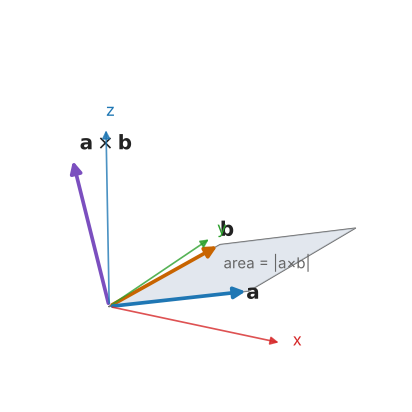
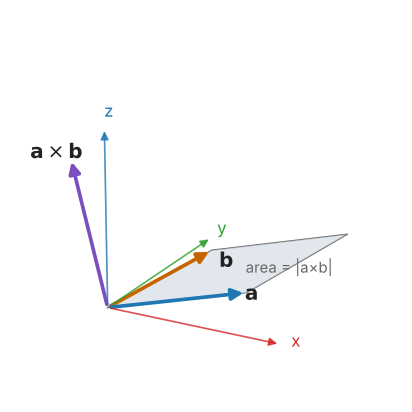
Record Nandi's three playlists in REFERENCES

Changed region(s): [[0.0583, 0.3204, 0.8738, 0.8447], [0.699, 0.8155, 0.7282, 0.8447], [0.2621, 0.2621, 0.2913, 0.2913]]

diff --git a/math-primer/figures/make_figures.py b/math-primer/figures/make_figures.py
@@ -134,19 +134,19 @@ def fig_m1_cross_product():
     ax.add_collection3d(Poly3DCollection([poly[:4]], facecolor="#cfd8e3", alpha=0.6, edgecolor="none"))
     for vec, col, lab, off in [
         (a, SERIES[0], r"$\mathbf{a}$", (0.05, -0.12, 0.0)),
-        (b, SERIES[1], r"$\mathbf{b}$", (-0.05, 0.08, 0.02)),
-        (c, SERIES[2], r"$\mathbf{a}\times\mathbf{b}$", (0.06, 0.0, 0.06)),
+        (b, SERIES[1], r"$\mathbf{b}$", (0.1, -0.08, -0.08)),
+        (c, SERIES[2], r"$\mathbf{a}\times\mathbf{b}$", (-0.32, 0.0, -0.05)),
     ]:
         ax.add_artist(Arrow3D((0, 0, 0), vec, arrowstyle="-|>", color=col, lw=2.2, mutation_scale=14))
         ax.text(*(vec + np.array(off)), lab, color=INK, fontsize=12)
     # reference axes
-    for vec, col, lab in [((1.3, 0, 0), X_RED, "x"), ((0, 1.3, 0), Y_GREEN, "y"), ((0, 0, 1.2), Z_BLUE, "z")]:
+    for vec, col, lab in [((1.3, 0, 0), X_RED, "x"), ((0, 1.45, 0), Y_GREEN, "y"), ((0, 0, 1.2), Z_BLUE, "z")]:
         ax.add_artist(Arrow3D((0, 0, 0), vec, arrowstyle="-|>", color=col, lw=1.0, mutation_scale=10, alpha=0.8))
         ax.text(*(np.array(vec) * 1.06), lab, color=col, fontsize=10)
     mid = (a + b) / 2
-    ax.text(mid[0] - 0.05, mid[1] - 0.05, mid[2], "area = |a×b|", color=MUTED, fontsize=9)
+    ax.text(mid[0] + 0.12, mid[1] + 0.02, mid[2], "area = |a×b|", color=MUTED, fontsize=9)
     ax.set_xlim(-0.4, 1.3)
-    ax.set_ylim(-0.2, 1.3)
+    ax.set_ylim(-0.2, 1.45)
     ax.set_zlim(0, 1.2)
     ax.view_init(elev=20, azim=-62)
     ax.set_axis_off()
@@ -307,7 +307,7 @@ def fig_m6_step_responses():
     ax.set_ylabel("y(t)")
     ax.set_title("unit-step response", fontsize=10, color=INK)
     ax.legend(loc="lower right", fontsize=8.5)
-    ax.text(10.5, 1.06, "±2% band", color=MUTED, fontsize=8)
+    ax.text(17.0, 1.08, "±2% band", color=MUTED, fontsize=8)
     fig.tight_layout()
     save(fig, "m6_step_responses.png")
 

diff --git a/docs/REFERENCES.md b/docs/REFERENCES.md
@@ -65,10 +65,10 @@ Prof. Gora Chand Nandi is Head of the Centre of Intelligent Robotics at IIIT-A. 
 
 | Playlist / video | URL | Status |
 |---|---|---|
-| (1) *Mathematical Foundation of Robotics* (29 videos). L2–L25 cover the mid-sem topics (FK/IK, spatial and rotational transforms, Euler angles, gimbal lock, quaternions, D-H, PUMA 560); L26–L29 cover dynamics. | https://youtube.com/playlist?list=PLFWlHcAOSQboRkC6DtxKIqXmErq0oc7S3 | **Verified from the instructor's notes** (the URL is printed in the IIIT-A mid-sem notes, p. 58). YouTube itself could not be opened from the research environment. |
+| (1) *Mathematical Foundation of Robotics* (29 lessons; first course, listed on his channel as a *Course*). L2–L25 cover the mid-sem topics (FK/IK, spatial and rotational transforms, Euler angles, gimbal lock, quaternions, D-H, PUMA 560); L26–L29 cover dynamics. | https://youtube.com/playlist?list=PLFWlHcAOSQboRkC6DtxKIqXmErq0oc7S3 | **Verified from the instructor's notes** (the URL is printed in the IIIT-A mid-sem notes, p. 58). YouTube itself could not be opened from the research environment. |
 | A single video, "Mathematical Foundation of Robotics, Lecture-4 (Basics of Forward and Inverse Dynamics)". Its description links to a Google Sites course page. | https://www.youtube.com/watch?v=dJA9kR1MVXM | Seen in search results. That it belongs to Prof. Nandi's series is *probable but unverified*. |
-| (2) The Robot Motion Control playlist | — | **Unverified: not found.** No URL could be confirmed. Search engines do not index the playlist, and youtube.com and sites.google.com were unreachable from the research environment. |
-| (3) The case-studies playlist | — | **Unverified: not found.** One candidate is a humanoid-robotics lecture series by Prof. Nandi. Its first video, "Introduction to Humanoid Robots, Lecture-1" (https://www.youtube.com/watch?v=dNqMxiBGIio), names Prof. G. C. Nandi in its metadata. Whether that series is the case-studies playlist is *unverified*. |
+| (2) **Mathematical Foundation of Robotics — Execution Level …** (12 videos; second course, RMC-oriented). Identified from a screenshot of Prof. Nandi's YouTube playlists page supplied by the repository owner; the full title is truncated there. | — | **Title and size confirmed by the owner; URL to be added.** |
+| (3) **Introduction to Humanoid and Collaborative Robots** (16 videos; third course: case studies, including the Baxter collaborative robot and humanoids). Identified from the same screenshot. The video "Introduction to Humanoid Robots, Lecture-1" (https://www.youtube.com/watch?v=dNqMxiBGIio) is probably its first lecture. | — | **Title and size confirmed by the owner; URL to be added.** |
 
 > **Action for maintainers:** please add the exact URLs of playlists (2) and (3) from Prof. Nandi's YouTube channel or his study-materials page once confirmed.
 
